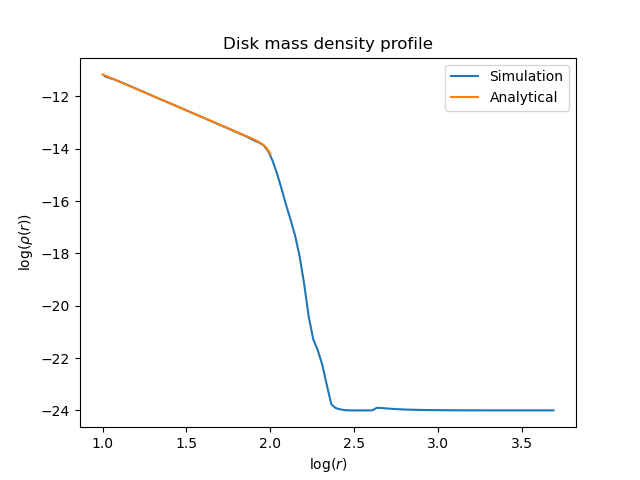
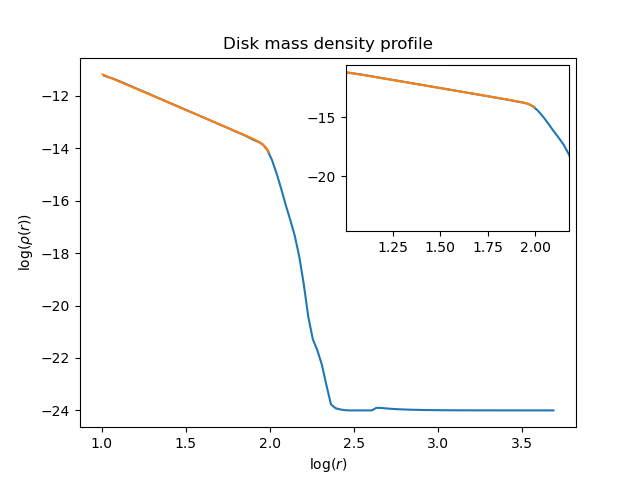
calculated disk theoretical mass

diff --git a/check_mass.py b/check_mass.py
@@ -2,7 +2,8 @@ import numpy as np
 import matplotlib.pyplot as plt 
 from pathlib import Path
 from read import get_domain_spherical, get_data, load_par_file
-from analysis import calc_cell_volume, calc_mass, centering, sph_to_cart, vel_sph_to_cart, calc_simtime, calc_surfdens
+from analysis import calc_cell_volume, calc_mass, calc_surfdens
+from mpl_toolkits.axes_grid1.inset_locator import inset_axes, mark_inset
 import astropy.constants as c
 import pandas as pd
 au = c.au.cgs.value
@@ -57,13 +58,37 @@ def dens_profile(sigma, h0, r0, rc, f, zc, plot=True):
     return rho
 
 
+def sph_cell_area_2D(r, theta):
+    """
+    Calculating the 2D cell volume: Note: Formula WRONG (02.09)
+    """
+
+    # Finding dr, dphi, dtheta and making them 3D arrays
+    dr = np.diff(r)
+    dtheta = np.diff(theta)
+    dR = dr[None, :]
+    dTheta = dtheta[:, None]
+
+    # We are finding the volume at the centre, so centering the cells
+    r_c = 0.5 * (r[:-1] + r[1:])
+    theta_c = 0.5 * (theta[:-1] + theta[1:])
+
+    # Creating a meshgrid of the centered cells
+    Theta_c, R_c = np.meshgrid(theta_c, r_c, indexing='ij')
+
+    # Finding cell volumes
+    cell_area = 2 * np.pi * R_c * np.sin(Theta_c) * dR * dTheta 
+
+    return cell_area
+
+
 ###################################### Numerically integrating for the disk mass ##########################################
 
 
 # Disk parameters from corresponding nocloud_nocomp par file
-folder = Path("nocloud_nocomp/")                                  # Folder with the output files
-it = 10                                                           # FARGO snapshot of interest
-sim_params = load_par_file(f"{folder}/{folder}_it{it}.par")       # Loading simulation parameters from the .par file
+folder = Path("nocloud_nocomp_it10/")                                  # Folder with the output files
+it = 10                                                                # FARGO snapshot of interest
+sim_params = load_par_file(f"{folder}/{folder}.par")                   # Loading simulation parameters from the .par file
 
 R0 = 5.2 * au                         # As defined in FARGO3D [cm]
 Rin = 10. * au                        # Disk inner radius in cm (corresponds to Ymin in mesh parameters) 
@@ -78,8 +103,12 @@ theta_max = 2.96705972839036          # Theta upper limit (corresponds to Zmax i
 theta = np.linspace(theta_min, theta_max, sim_params['Nz'])                           # Theta array
 r = np.logspace(np.log10(Rin / au), np.log10(Rout / au), sim_params['Ny']) * au       # Radius array
 
+# Centering the cells
+r_c = 0.5 * (r[:-1] + r[1:])
+theta_c = 0.5 * (theta[:-1] + theta[1:])
+
 # Converting to cylindrical coordinates
-THETA, R = np.meshgrid(theta, r, indexing="ij")
+THETA, R = np.meshgrid(theta_c, r_c, indexing="ij")
 RCYL = R * np.sin(THETA)
 ZCYL = R * np.cos(THETA)
 
@@ -89,14 +118,17 @@ sigma_r = surf_dens_profile(sigma0, p, R0, RCYL, Rout, plot=False)
 # Calculating and plotting the density profile
 rho_r = dens_profile(sigma_r, h0, R0, RCYL, f, ZCYL, plot=False)
 
+# Calculating total disk mass
+vol2D = sph_cell_area_2D(r, theta)
+disk_mass_theoretical = np.sum(sigma_r * vol2D)
+
 
 #################################### Adding up mass from the simulation ######################################
 
 
-disk_folder = Path("../nocloud_nocomp_it10/")         # Folder with the output files
-disk_fig_imgs = Path("nocloud_nocomp_it10/imgs/")         # Folder to save images
+disk_folder = Path("../nocloud_nocomp_it10/")                      # Folder with the output files
+disk_fig_imgs = Path("nocloud_nocomp_it10/imgs/")                  # Folder to save images
 disk_it = 10                                                       # FARGO snapshot of interest
-
 
 domains = get_domain_spherical(disk_folder)
 disk_rho = get_data(disk_folder, "dens", disk_it, domains)         # Load 3D array of density values            
@@ -106,35 +138,56 @@ disk_rho = get_data(disk_folder, "dens", disk_it, domains)         # Load 3D arr
 cell_volume = calc_cell_volume(domains["theta"], domains["r"], domains["phi"])
 disk_mass = calc_mass(disk_rho, cell_volume)
 disk_surf_dens = calc_surfdens(disk_rho, domains["theta"], domains["r"], domains["phi"])
+disk_mass_simulation = np.sum(disk_mass)
 
 
 ################################################ Comparison plots ##############################################
 
 
 # Surface density plots
-plt.plot(np.log10(domains["r"]/au), np.log10(disk_surf_dens), label="Simulation")
-plt.plot(np.log10(RCYL[62]/au), np.log10(sigma_r[62]), label="Analytical")
-# plt.plot(np.log10(r / au), sigma_r, label="Analytical 2")
-plt.xlabel(r"$\log(r)$")
-plt.ylabel(r"$\log(\Sigma(r))$")
-plt.title("Disk surface density profile")
-plt.legend()
+fig, ax = plt.subplots()
+ax.plot(np.log10(domains["r"]/au), np.log10(disk_surf_dens), label="Simulation")
+ax.plot(np.log10(RCYL[62]/au), np.log10(sigma_r[62]), label="Analytical")
+# ax.plot(np.log10(r / au), sigma_r, label="Analytical 2")
+ax.set_xlabel(r"$\log(r)$")
+ax.set_ylabel(r"$\log(\Sigma(r))$")
+ax.set_title("Disk surface density profile")
+ax.legend()
+
+# Inset axis zooming in to the first 100 AU
+inset_ax = inset_axes(ax, width="45%", height="45%", loc='upper right')
+x1, x2 = np.min(np.log10(RCYL[62]/au)), np.log10(150)
+inset_ax.set_xlim(x1, x2)
+inset_ax.plot(np.log10(domains["r"]/au), np.log10(disk_surf_dens))
+inset_ax.plot(np.log10(RCYL[62]/au), np.log10(sigma_r[62]))
+# mark_inset(ax, inset_ax, loc1=2, loc2=4, fc="none", ec="0.5")
 plt.savefig(f'{disk_fig_imgs}/checkmass_surfdens_it{it}.png')
 plt.show()
 
+
 # Mass density plots
-print(disk_rho.shape, RCYL.shape)
-# wednwe
-plt.plot(np.log10(domains["r"]/au), np.log10(disk_rho[62, :, 0]), label="Simulation")
-plt.plot(np.log10(RCYL[62]/au), np.log10(rho_r[62]), label="Analytical")
-# plt.plot(np.log10(r/au), np.log10(rho_r), label)
-# plt.plot(np.log10(r / au), rho_r)
-plt.xlabel(r"$\log(r)$")
-plt.ylabel(r"$\log(\rho(r))$")
-plt.title("Disk mass density profile")
-plt.legend()
+fig, ax = plt.subplots()
+ax.plot(np.log10(domains["r"]/au), np.log10(disk_rho[62, :, 0]), label="Simulation")
+ax.plot(np.log10(RCYL[62]/au), np.log10(rho_r[62]), label="Analytical")
+# ax.plot(np.log10(r/au), np.log10(rho_r), label)
+# ax.plot(np.log10(r / au), rho_r)
+ax.set_xlabel(r"$\log(r)$")
+ax.set_ylabel(r"$\log(\rho(r))$")
+ax.set_title("Disk mass density profile")
+ax.legend()
+
+# Inset axis zooming in to the first 100 AU
+inset_ax = inset_axes(ax, width="45%", height="45%", loc='upper right')
+x1, x2 = np.min(np.log10(RCYL[62]/au)), np.log10(150)
+inset_ax.set_xlim(x1, x2)
+inset_ax.plot(np.log10(domains["r"]/au), np.log10(disk_rho[62, :, 0]))
+inset_ax.plot(np.log10(RCYL[62]/au), np.log10(rho_r[62]))
+# mark_inset(ax, inset_ax, loc1=2, loc2=4, fc="none", ec="0.5")
 plt.savefig(f'{disk_fig_imgs}/checkmass_massdens_it{it}.png')
 plt.show()
+
+print(f"Theoretical disk mass: {disk_mass_theoretical:.2e} g or {(disk_mass_theoretical / Msun):.3f} Msun")
+print(f"Simulation disk mass: {disk_mass_simulation:.2e} g or {(disk_mass_simulation / Msun):.3f} Msun")
 
 
 ################################## Now calculating cloudlet mass from the simulation ###################################
@@ -162,8 +215,10 @@ cell_volume = calc_cell_volume(cloud_domains["theta"], cloud_domains["r"], cloud
 cloud_mass = calc_mass(cloud_rho, cell_volume)
 cloud_mass_simulation = np.sum(cloud_mass)
 # cloud_surf_dens = calc_surfdens(cloud_rho, cloud_domains["theta"], cloud_domains["r"], cloud_domains["phi"])
-print(f"Theoretical cloud mass: {cloud_mass_theoretical:.2e}")
-print(f"Simulation cloud mass: {cloud_mass_simulation:.2e}")
+
+
+print(f"Theoretical cloud mass: {cloud_mass_theoretical:.2e} g or {(cloud_mass_theoretical / Msun):.3f} Msun")
+print(f"Simulation cloud mass: {cloud_mass_simulation:.2e} g or {(cloud_mass_simulation / Msun):.3f} Msun")
 
 
 

diff --git a/analysis.py b/analysis.py
@@ -4,7 +4,7 @@ import numpy as np
 from pathlib import Path
 from read import get_domain_spherical, get_data, load_par_file
 import matplotlib.pyplot as plt
-from no_thoughts_just_plots import quiver_plot_3d, contours_3D, plot_surf_dens, plot_twist_arrows, plot_total_disks_bonanza
+from no_thoughts_just_plots import quiver_plot_3d, contours_3D, plot_surf_dens, plot_twist_arrows, plot_total_disks_bonanza, cyl_2D_plot, XY_2D_plot
 import astropy.constants as c
 import pandas as pd
 au = c.au.cgs.value
@@ -503,16 +503,16 @@ def calc_total_L(Lx_avg, Ly_avg, Lz_avg):
 
 def main():
 
-    folder = Path("../nocloud_nocomp_it10/")         # Folder with the output files
-    fig_imgs = Path("nocloud_nocomp_it10/imgs/")     # Folder to save images
-    it = 10                                                       # FARGO snapshot of interest
+    folder = Path("../cloud_disk_it450/")         # Folder with the output files
+    fig_imgs = Path("cloud_disk_it450/imgs/")     # Folder to save images
+    it = 450                                                       # FARGO snapshot of interest
     sim_name = str(fig_imgs).split('/')[0]                         # Simulation name (for plot labels)
     sim_params = load_par_file(f"{sim_name}/{sim_name}.par")       # Loading simulation parameters from the .par file
     print(sim_params)
     
     # Save simulation parameters into dictionary for plotting purposes
     plot_args = {"Time": f"{int(calc_simtime(it))} kyr", "b": sim_params['ImpactParameter'] }
-    print(plot_args)
+    # print(plot_args)
     
 
     ###################### Load data (theta = 100, r = 250, phi = 225) ################################
@@ -563,7 +563,7 @@ def main():
     # Note 1: I am using centered densities to isolate the warp to match the indices corresponding to the warp with the angular momenta indices
     # Note 2: The warp_ids itself is a 3D Boolean array, but when applied to another array such as x[warp_ids], the latter array becomes 1D
     warp_thresh = -14.5   # log of density threshold for which we can see the warp in the primary
-    warp_buffer = 150   # Isolates a box of 2 * warp_buffer around the star (AU)
+    warp_buffer = 300   # Isolates a box of 2 * warp_buffer around the star (AU)
     rho_c_warp, vx_c_warp, vy_c_warp, vz_c_warp, Lx_c_warp, Ly_c_warp, Lz_c_warp, warp_ids = isolate_disk(X_c, Y_c, Z_c, Px * au, Py * au, Pz * au, warp_buffer * au, rho_c, vx_c, vy_c, vz_c, Lx, Ly, Lz, warp_thresh) 
 
     # Find the radial extent of the warp
@@ -575,26 +575,36 @@ def main():
     plot_args[r"$\rho_{\mathrm{prim}} \geq$"] = fr"$10^{{{warp_thresh}}} g/cm^3$"
     
 
-    #################################### Plotting warp properties #####################################
+    #################################### Plotting warp/disk properties #####################################
 
+    # irad = -1
+    irad = np.where(domains["r"]/au < 2000)[0][-1]
+    iphi = 0
+    itheta = int(len(domains["theta"])/2)
+    print(itheta)
+    itheta_deg = np.round(np.rad2deg(domains["theta"][itheta]), 2)
 
-    # Plotting the warp densities 
+    cyl_2D_plot(rho, RCYL, ZCYL, irad, iphi, title=rf'Density R-Z Plane $\phi = $ {np.round(np.degrees(domains["phi"][iphi]), 2)}', colorbarlabel=r"$\rho (g/cm^{3})$", savefig=True, figfolder=folder / f"dens_cyl_phi{iphi}_rad{irad}.png")
+
+    XY_2D_plot(rho, X, Y, irad, itheta, title=rf'Density X-Z Plane $\theta = $ {itheta_deg}', colorbarlabel=r"$\log(\rho)$", savefig=True, figfolder=folder / f"dens_xz_theta{itheta}_rad{irad}.png")
+
+    # Plotting the warp/disk densities 
     contours_3D(X_c/au, Y_c/au, Z_c/au, np.log10(rho_c_warp), r_select, plot_args, colorbarlabel=r'$\log(\rho) [g/cm^3]$', title=r'Primary disk: $\log(\rho)$', savefig=False, figfolder=f'{fig_imgs}/warp_dens_thresh{warp_thresh}_it{it}.png', showfig=True)
     
-    # Another way to plot the warp densities
+    # Another way to plot the warp/disk densities
     # contours_3D(X_c[warp_ids]/au, Y_c[warp_ids]/au, Z_c[warp_ids]/au, rho_c[warp_ids], fig, colorbarlabel=r'$\rho [g/cm^3]$', title=rf'$\log(\rho)$ above $\rho = 10^{{{threshold}}} g/cm^3$')
 
-    # Plotting the Cartesian warp angular momenta
-    # quiver_plot_3d(X_c/au, Y_c/au, Z_c/au, Lx_c_warp, Ly_c_warp, Lz_c_warp, stagger=5, length=2, title="Warp angular momenta 2", colorbarlabel="logL", savefig=False, figfolder=f'../warp_L_thresh{warp_thresh}_it{it}.png', logmag=True, ignorecol=True)
+    # Plotting the Cartesian warp/disk angular momenta
+    # quiver_plot_3d(X_c/au, Y_c/au, Z_c/au, Lx_c_warp, Ly_c_warp, Lz_c_warp, stagger=10, length=2, title="Disk Angular Momenta", colorbarlabel="logL", savefig=False, figfolder=f'../warp_L_thresh{warp_thresh}_it{it}.png', logmag=True, ignorecol=True)
 
-    # Another way to plot the Cartesian warp angular momenta
-    # quiver_plot_3d(X_c[warp_ids]/au, Y_c[warp_ids]/au, Z_c[warp_ids]/au, Lx[warp_ids], Ly[warp_ids], Lz[warp_ids], stagger=70, length=3, title="Warp angular momenta", colorbarlabel="logL", savefig=False, figfolder=f'../warp_L_thresh{warp_thresh}_it{it}.png', logmag=True)
+    # Another way to plot the Cartesian warp/disk angular momenta
+    quiver_plot_3d(X_c[warp_ids]/au, Y_c[warp_ids]/au, Z_c[warp_ids]/au, Lx[warp_ids], Ly[warp_ids], Lz[warp_ids], stagger=100, length=3, title="Warp Angular Momenta", colorbarlabel="logL", savefig=False, figfolder=f'../warp_L_thresh{warp_thresh}_it{it}.png', logmag=True)
 
-    # Calculating the radial profile of warp inclination and precession according to Kimmig & Dullemond (2024)
+    # Calculating the radial profile of warp/disk inclination and precession according to Kimmig & Dullemond (2024)
     Lx_warp_avg, Ly_warp_avg, Lz_warp_avg = calc_L_average(Lx_c_warp, Ly_c_warp, Lz_c_warp)
     inc, twist = calc_inc_twist(Lx_warp_avg, Ly_warp_avg, Lz_warp_avg, domains["r"], savefig=False, plot=False)
 
-    # Calculating and plotting the radial profile of warp precession as a quiver plot
+    # Calculating and plotting the radial profile of warp/disk precession as a quiver plot
     plot_twist_arrows(Lx_warp_avg, Ly_warp_avg, Lz_warp_avg, domains["r"], r_select, plot_args, title="Primary disk: Twist", savefig=False, figfolder=f'{fig_imgs}/warp_twist_arrows_it{it}.png', showfig=True)
 
     # Calculating and plotting the total angular momentum of the warped disk

diff --git a/no_thoughts_just_plots.py b/no_thoughts_just_plots.py
@@ -37,7 +37,7 @@ def cyl_2D_plot(data, RCYL, ZCYL, irad, iphi, title, colorbarlabel, savefig, fig
     """
 
     plt.figure()
-    plt.pcolormesh(RCYL[..., :irad, iphi]/au, ZCYL[..., :irad, iphi]/RCYL[..., :irad, iphi], np.log10(data[...,:irad, iphi]), cmap="viridis", vmin=-19, vmax=-11, rasterized=True)
+    plt.pcolormesh(RCYL[..., :irad, iphi]/au, ZCYL[..., :irad, iphi]/RCYL[..., :irad, iphi], np.log10(data[...,:irad, iphi]), cmap="Spectral", vmin=-19, vmax=-11, rasterized=True)
     plt.xlabel("rcyl / AU")
     plt.ylabel("z / r")
     plt.xscale("log")
@@ -71,7 +71,7 @@ def XY_2D_plot(data, X, Y, irad, itheta, title, colorbarlabel, savefig, figfolde
     """
 
     plt.figure()
-    plt.pcolormesh(X[itheta, :irad, ...]/au, Y[itheta, :irad, ...]/au, np.log10(data[itheta, :irad, ...]), cmap="viridis", vmin=-19, vmax=-11, rasterized=True)
+    plt.pcolormesh(X[itheta, :irad, ...]/au, Y[itheta, :irad, ...]/au, np.log10(data[itheta, :irad, ...]), cmap="Spectral", vmin=-19, vmax=-11, rasterized=True)
     plt.gca().set_aspect("equal")
     plt.xlabel("x / AU")
     plt.ylabel("y / AU")
